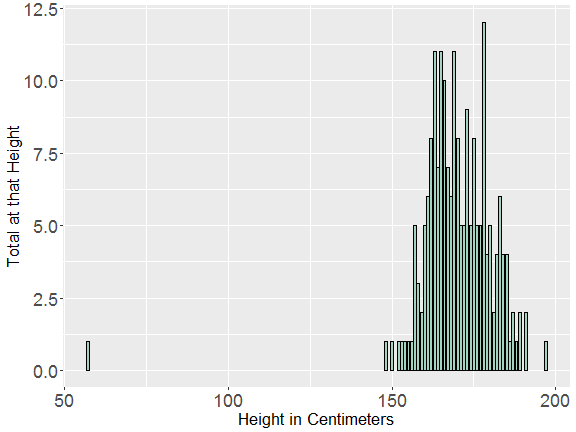
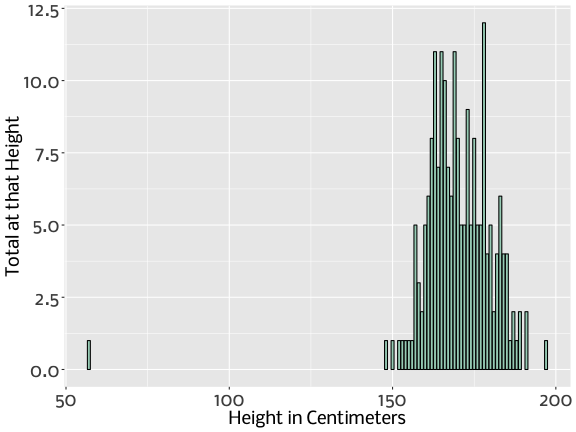
"first commit since mac returned. Must solve path issues"

diff --git a/slides_on_data.html b/slides_on_data.html
@@ -4,9 +4,9 @@
     <title>Data Literacy</title>
     <meta charset="utf-8">
     <meta name="author" content="Martin Gleason, MS" />
-    <meta name="date" content="2018-07-16" />
+    <meta name="date" content="2018-07-23" />
     <script src="libs/kePrint-0.0.1/kePrint.js"></script>
-    <link rel="stylesheet" href="libs\remark-css\default.css" type="text/css" />
+    <link rel="stylesheet" href="libs/remark-css/default.css" type="text/css" />
     <link rel="stylesheet" href="pro_presentation.css" type="text/css" />
   </head>
   <body>
@@ -21,7 +21,7 @@ class: inverse
 
 .center[*Sit back, relax. The training is about to begin!*]
 .center[&lt;iframe width="560" height="315" src="https://www.youtube.com/embed/lJJT00wqlOo" frameborder="0" allow="autoplay; encrypted-media" allowfullscreen&gt;&lt;/iframe&gt;]
-.bottom[.right[Monday, July 07 2018]]
+.bottom[.right[Monday, July 23 2018]]
 
 ???
 YouTube is for set up me, really.
@@ -273,101 +273,14 @@ class:center
 ---
 class:center
 # Total Height
-
-```
-## Warning in grid.Call(C_textBounds, as.graphicsAnnot(x$label), x$x, x$y, :
-## font family not found in Windows font database
-
-## Warning in grid.Call(C_textBounds, as.graphicsAnnot(x$label), x$x, x$y, :
-## font family not found in Windows font database
-
-## Warning in grid.Call(C_textBounds, as.graphicsAnnot(x$label), x$x, x$y, :
-## font family not found in Windows font database
-
-## Warning in grid.Call(C_textBounds, as.graphicsAnnot(x$label), x$x, x$y, :
-## font family not found in Windows font database
-
-## Warning in grid.Call(C_textBounds, as.graphicsAnnot(x$label), x$x, x$y, :
-## font family not found in Windows font database
-
-## Warning in grid.Call(C_textBounds, as.graphicsAnnot(x$label), x$x, x$y, :
-## font family not found in Windows font database
-
-## Warning in grid.Call(C_textBounds, as.graphicsAnnot(x$label), x$x, x$y, :
-## font family not found in Windows font database
-```
-
-```
-## Warning in grid.Call.graphics(C_text, as.graphicsAnnot(x$label), x$x, x
-## $y, : font family not found in Windows font database
-```
-
 &lt;img src="slides_on_data_files/figure-html/TrickQuestion_one-1.png" style="display: block; margin: auto;" /&gt;
 ---
 class:center
 ## Density of Height
-
-```
-## Warning in grid.Call(C_textBounds, as.graphicsAnnot(x$label), x$x, x$y, :
-## font family not found in Windows font database
-
-## Warning in grid.Call(C_textBounds, as.graphicsAnnot(x$label), x$x, x$y, :
-## font family not found in Windows font database
-
-## Warning in grid.Call(C_textBounds, as.graphicsAnnot(x$label), x$x, x$y, :
-## font family not found in Windows font database
-
-## Warning in grid.Call(C_textBounds, as.graphicsAnnot(x$label), x$x, x$y, :
-## font family not found in Windows font database
-
-## Warning in grid.Call(C_textBounds, as.graphicsAnnot(x$label), x$x, x$y, :
-## font family not found in Windows font database
-
-## Warning in grid.Call(C_textBounds, as.graphicsAnnot(x$label), x$x, x$y, :
-## font family not found in Windows font database
-
-## Warning in grid.Call(C_textBounds, as.graphicsAnnot(x$label), x$x, x$y, :
-## font family not found in Windows font database
-```
-
-```
-## Warning in grid.Call.graphics(C_text, as.graphicsAnnot(x$label), x$x, x
-## $y, : font family not found in Windows font database
-```
-
 &lt;img src="slides_on_data_files/figure-html/TrickQuestion_two-1.png" style="display: block; margin: auto;" /&gt;
 ---
 class:center
 ## Measures of Central Tendency with Height
-
-```
-## Warning in grid.Call(C_textBounds, as.graphicsAnnot(x$label), x$x, x$y, :
-## font family not found in Windows font database
-
-## Warning in grid.Call(C_textBounds, as.graphicsAnnot(x$label), x$x, x$y, :
-## font family not found in Windows font database
-
-## Warning in grid.Call(C_textBounds, as.graphicsAnnot(x$label), x$x, x$y, :
-## font family not found in Windows font database
-
-## Warning in grid.Call(C_textBounds, as.graphicsAnnot(x$label), x$x, x$y, :
-## font family not found in Windows font database
-
-## Warning in grid.Call(C_textBounds, as.graphicsAnnot(x$label), x$x, x$y, :
-## font family not found in Windows font database
-
-## Warning in grid.Call(C_textBounds, as.graphicsAnnot(x$label), x$x, x$y, :
-## font family not found in Windows font database
-
-## Warning in grid.Call(C_textBounds, as.graphicsAnnot(x$label), x$x, x$y, :
-## font family not found in Windows font database
-```
-
-```
-## Warning in grid.Call.graphics(C_text, as.graphicsAnnot(x$label), x$x, x
-## $y, : font family not found in Windows font database
-```
-
 &lt;img src="slides_on_data_files/figure-html/trickquestionThree-1.png" style="display: block; margin: auto;" /&gt;
 ---
 ## Chart Example
@@ -405,37 +318,6 @@ class:center
   + clue is in the chart
 ---
 ## Correct Way to Visualize
-
-```
-## Warning in grid.Call(C_textBounds, as.graphicsAnnot(x$label), x$x, x$y, :
-## font family not found in Windows font database
-
-## Warning in grid.Call(C_textBounds, as.graphicsAnnot(x$label), x$x, x$y, :
-## font family not found in Windows font database
-
-## Warning in grid.Call(C_textBounds, as.graphicsAnnot(x$label), x$x, x$y, :
-## font family not found in Windows font database
-
-## Warning in grid.Call(C_textBounds, as.graphicsAnnot(x$label), x$x, x$y, :
-## font family not found in Windows font database
-
-## Warning in grid.Call(C_textBounds, as.graphicsAnnot(x$label), x$x, x$y, :
-## font family not found in Windows font database
-
-## Warning in grid.Call(C_textBounds, as.graphicsAnnot(x$label), x$x, x$y, :
-## font family not found in Windows font database
-```
-
-```
-## Warning in grid.Call.graphics(C_text, as.graphicsAnnot(x$label), x$x, x
-## $y, : font family not found in Windows font database
-```
-
-```
-## Warning in grid.Call(C_textBounds, as.graphicsAnnot(x$label), x$x, x$y, :
-## font family not found in Windows font database
-```
-
 &lt;img src="slides_on_data_files/figure-html/correct_viz-1.png" style="display: block; margin: auto;" /&gt;&lt;table class="table table-striped" style="width: auto !important; margin-left: auto; margin-right: auto;"&gt;
 &lt;caption&gt;All Measurements in cm&lt;/caption&gt;
  &lt;thead&gt;
